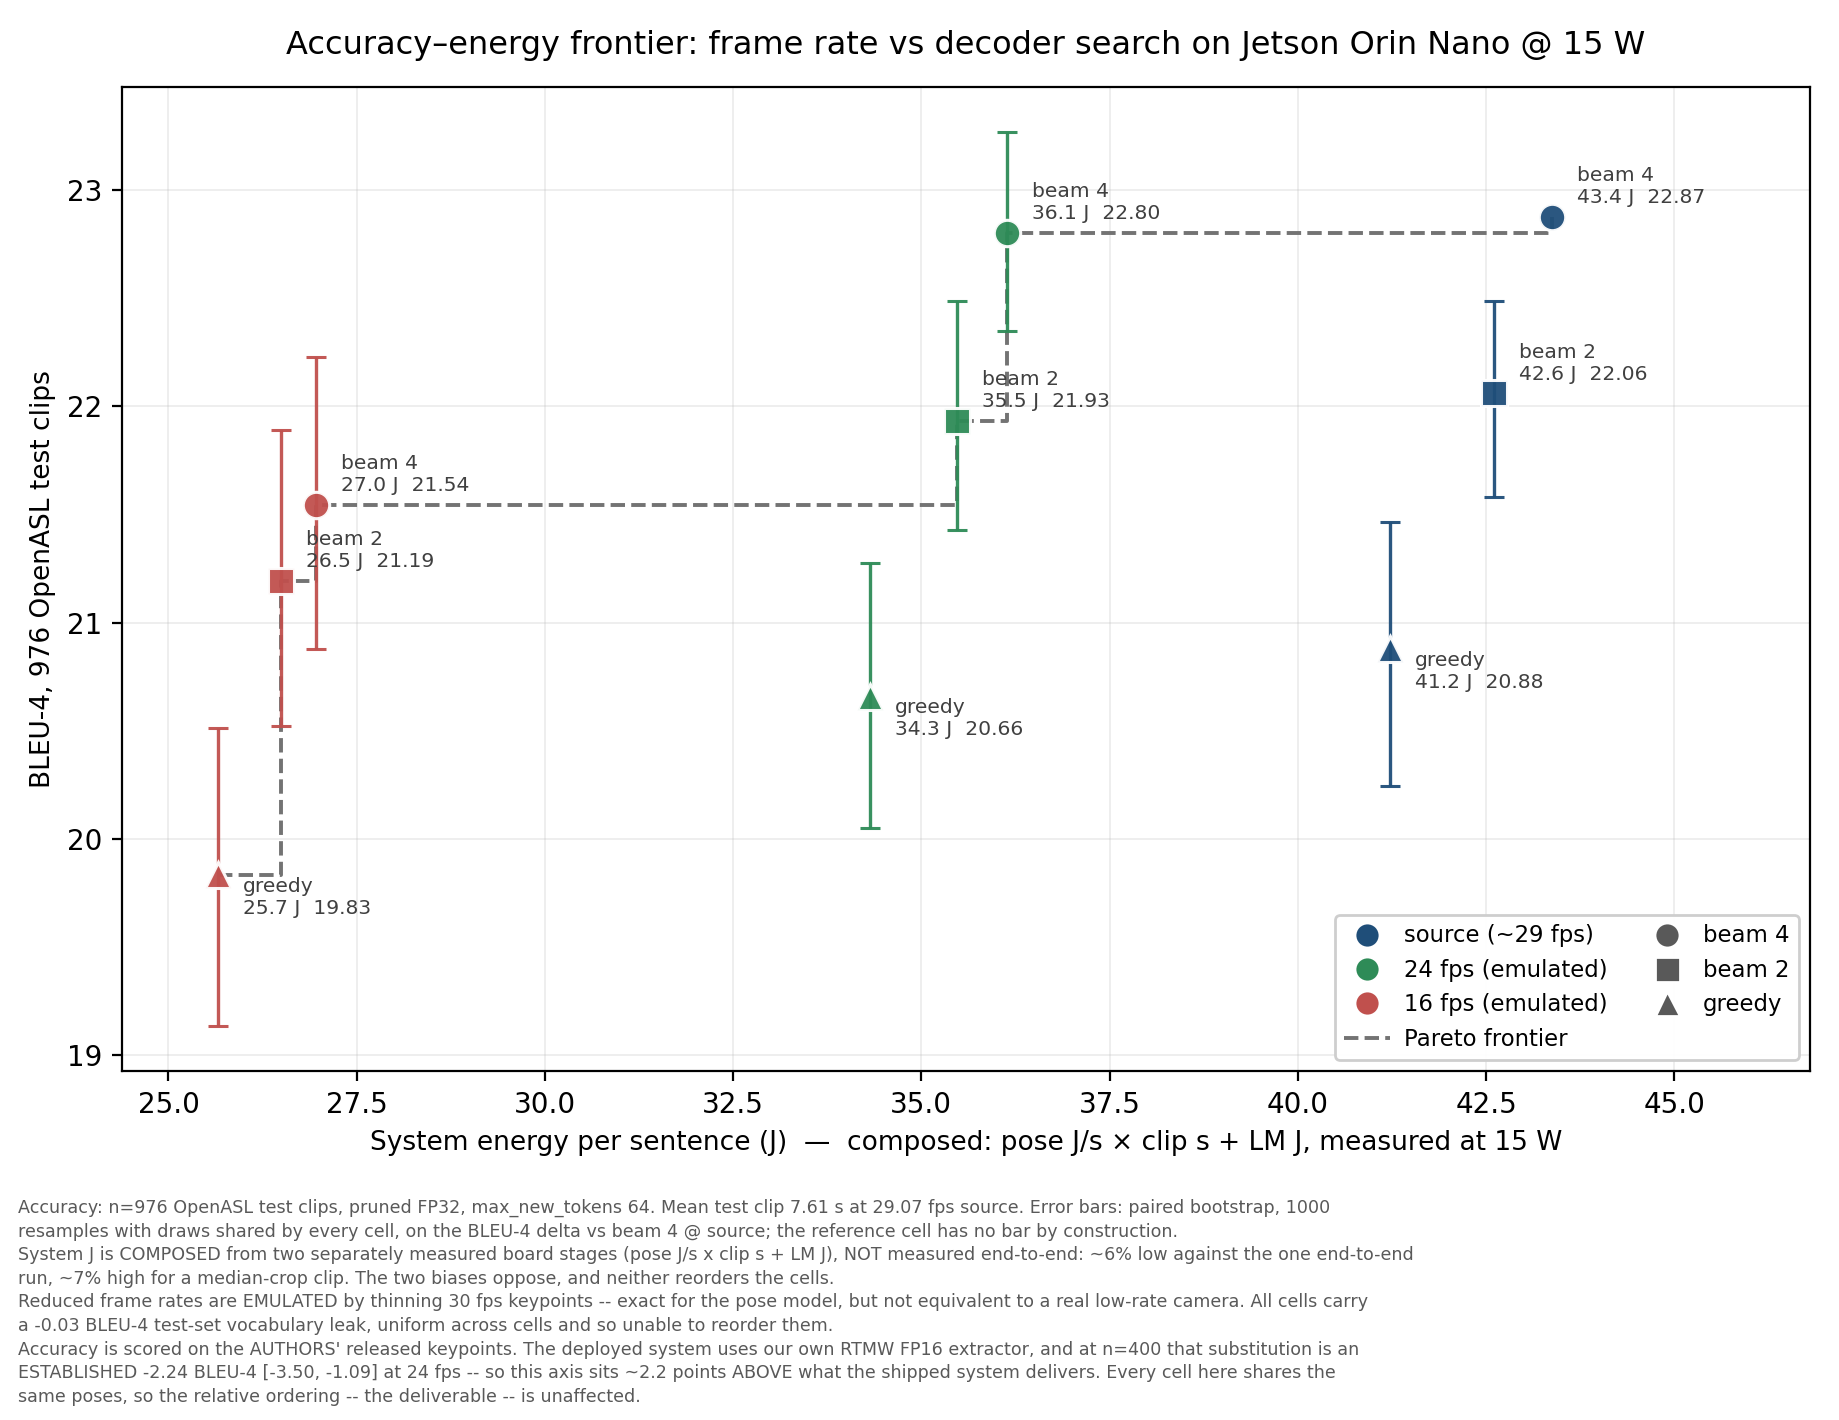
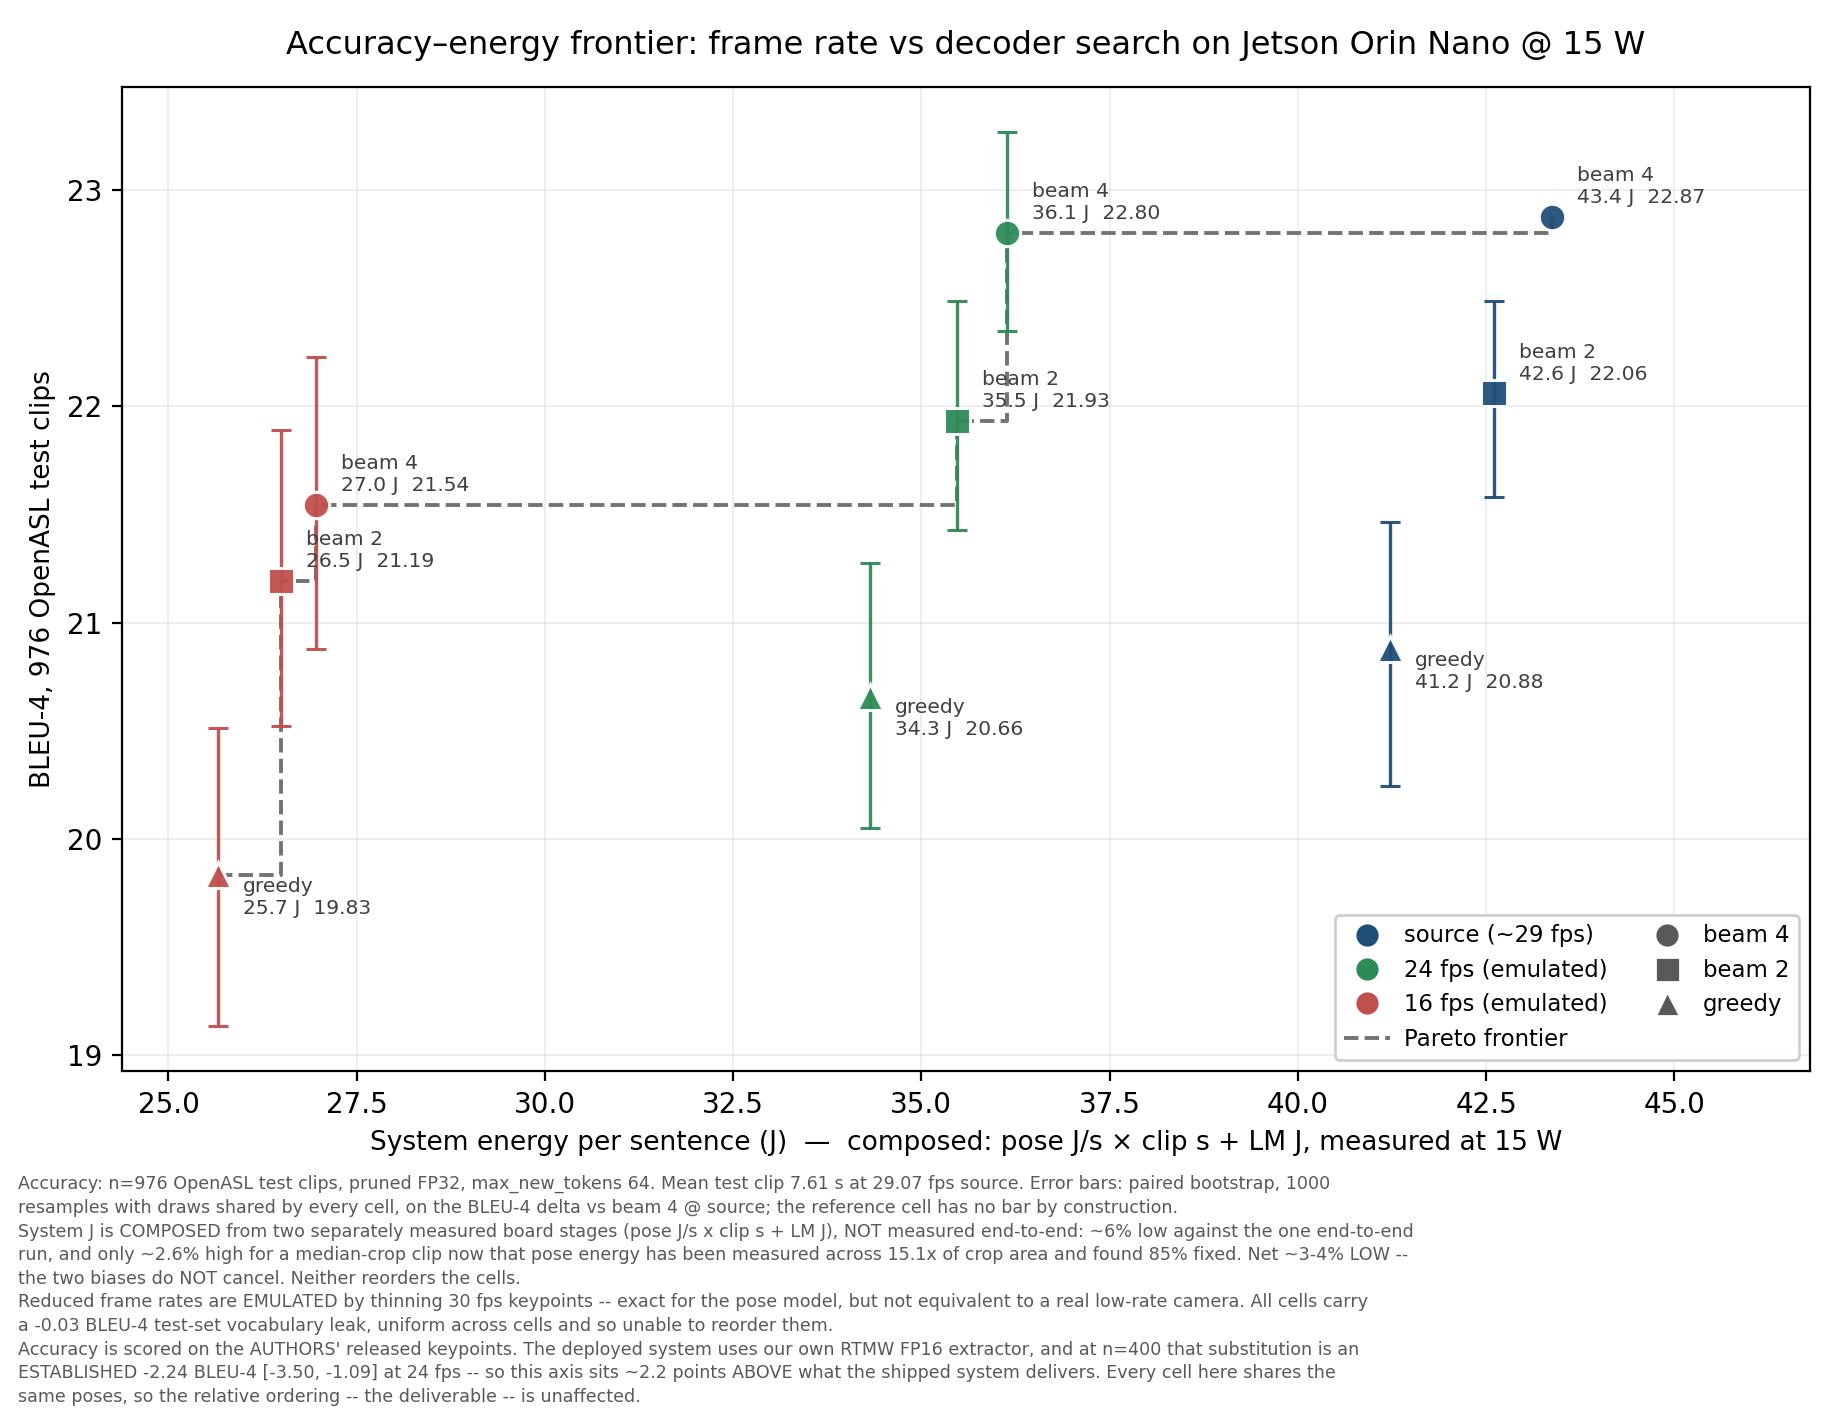
J6 propagated: the crop-area bias is ~2.6% not ~7%, and the biases no longer cancel
2.9D measured pose energy across 15.1x of crop area and found the cost 85%
fixed (mJ/frame = 109.7 + 49.5/Mpx). Our "~7% pessimistic for a median clip"
assumed all ~11.1 ms of per-frame CPU time scaled with area; only ~4.5 ms
does. Median correction is -2.6%, p10 -10.4%, not -7%/-27%.

The knock-on matters more than the number. frontier.py, plot_frontier.py,
the figure footnote, LM-TRACK-REPORT and RESEARCH-STORY all paired "~6% low"
against "~7% high" as roughly offsetting. At 2.6% they do not cancel: the
composed energy column is NET ~3-4% LOW, i.e. mildly optimistic rather than
unbiased. Relative ordering across cells is untouched -- every cell shares
the clip and the rates -- so the frontier itself does not move.

frontier.png and frontier.csv regenerated from the corrected source.

Also propagated into LM-TRACK-REPORT the 2026-10-02 refutation of the
convert/load/warm-up explanation for the 3.16 J residual, which had reached
frontier.py's docstring but not the report. ORIENTATION's "latency across the
crop range" open item is closed.

REPLY-J9-ADAPT: the J9 spec's single adapted-vs-un-adapted comparison cannot
separate adaptation-to-our-keypoints from fine-tuning-on-dev helping
generally -- L15.2 measured +0.18 BLEU-4 with NO shift to adapt to, and
L15.3's difference-in-differences was not established. Asks for a control arm
trained on the authors' dev poses, which needs no board time because
data/openasl_dev_pose/ is already on the Mac. Plus four logistics
[…]

Changed region(s): [[0.0, 0.8056, 0.7749, 0.9296]]

diff --git a/unisign/frontier.py b/unisign/frontier.py
@@ -54,13 +54,22 @@ relative ordering is the deliverable. But the absolute joules are not a typical 
      one end-to-end run -- the 2x2 reports per-stage LATENCY but only a per-sentence total, so it
      cannot split the residual between the pose and LM terms. That is an open ask to the board.
 
-  2. ~7% HIGH (pessimistic) for a median clip. POSE_J_PER_S was measured on one clip whose crop
-     is at the 83rd percentile of crop area across the 931-clip split (9k to 770k px, median
-     395k). Per-frame pose cost is ~13.97 ms fixed (TRT runs at a fixed 256x192 input) plus
-     ~11.13 ms that scales with crop area, so a median clip is ~7% cheaper per frame and a p10
-     clip ~27% cheaper. Meanwhile CLIP_S below is the MEAN TEST CLIP duration, not that clip's --
-     so the absolute column already mixes a duration from our split with an energy rate from
-     their clip. Fixing it needs pose energy over clips spanning the crop range (their C9 work).
+  2. ~2.6% HIGH (pessimistic) for a median clip -- REVISED DOWN from the ~7% this docstring
+     claimed until 2026-10-05. POSE_J_PER_S was measured on one clip whose crop is at the 83.4th
+     percentile of crop area across the 931-clip split (9k to 770k px, median 395k). The ~7%
+     figure assumed all ~11.13 ms of per-frame CPU time scaled with crop area. MEASURED over five
+     clips spanning 15.1x of area (RESULTS.md 2.9D / J6, 2026-10-04), only ~4.5 ms of it does:
+     the fit is mJ/frame = 109.7 + 49.5 per Mpx, i.e. 15.1x the area costs 1.34x the energy and
+     the cost is 85% FIXED. A median clip is therefore 2.6% cheaper per frame, not 7%, and a p10
+     clip 10.4%, not 27%. The old figure was an overestimate of about 3x.
+
+     CONSEQUENCE, and it is the reason this matters: caveats 1 and 2 no longer cancel. The old
+     pairing was "~6% low against ~7% high, the two oppose". At 2.6% the net is ~3-4% LOW, so the
+     absolute energy column is optimistic rather than roughly unbiased. Relative ordering across
+     cells is still untouched -- every cell shares the same clip and the same rates.
+
+     Meanwhile CLIP_S below is the MEAN TEST CLIP duration, not that clip's -- so the absolute
+     column still mixes a duration from our split with an energy rate from their clip.
 
 Two interpolations are flagged in the output:
   * beam 2 was not measured at T=137 or T=68, so it is placed at the same fraction of the
@@ -165,9 +174,10 @@ def main():
     name = NAME
     print(f"\nComposed accuracy-energy frontier, mean test clip ({CLIP_S} s, {SRC_FPS} fps source)")
     print("System J is COMPOSED from two separately measured stages, not measured end-to-end.")
-    print("Absolute J carries two opposing biases (see docstring): ~6% low from the unmodelled")
-    print("convert/load/warm-up, ~7% high because the pose energy rate came from an 83rd-percentile")
-    print("crop. RELATIVE comparisons across cells are unaffected. * = interpolated LM cell.\n")
+    print("Absolute J is NET ~3-4% LOW (see docstring): ~6% low from an across-run comparison, only")
+    print("~2.6% high from the 83rd-percentile crop the pose rate was measured on. The crop term was")
+    print("~7% until 2.9D/J6 measured it; the two no longer cancel.")
+    print("RELATIVE comparisons across cells are unaffected. * = interpolated LM cell.\n")
     print(f"{'decoder':<9}{'fps':>7}{'frames':>8}{'BLEU-4':>8}{'ROUGE-L':>9}"
           f"{'pose J':>8}{'LM J':>7}{'sys J':>8}  {'vs best':>8}  frontier")
     best = max(r["sys_J"] for r in rows)

diff --git a/results/plot_frontier.py b/results/plot_frontier.py
@@ -22,9 +22,12 @@ THREE THINGS THIS PLOT IS NOT, ALL ANNOTATED ON THE FIGURE ITSELF:
 
   1. System joules are COMPOSED, not measured end-to-end. Against the one measured end-to-end run
      the composition predicts 47.2 J where 50.37 J was measured (~6% low), and the pose rate came
-     from a clip at the 83rd percentile of crop area (~7% high for a median clip). The two biases
-     oppose. RELATIVE ordering across cells -- which is the deliverable -- is unaffected, because
-     every cell shares the same clip and the same rates.
+     from a clip at the 83.4th percentile of crop area (~2.6% high for a median clip). The net is
+     therefore ~3-4% LOW. NOTE: the crop term read ~7% here until 2026-10-05, which made the two
+     biases look like they cancelled; RESULTS.md 2.9D / J6 measured pose energy across 15.1x of
+     crop area and found the cost 85% FIXED, cutting that term by about 3x. RELATIVE ordering
+     across cells -- which is the deliverable -- is unaffected, because every cell shares the same
+     clip and the same rates.
   2. Reduced frame rates are EMULATED by thinning already-extracted 30 fps keypoints. Exact for
      the pose model (extraction is per-frame independent), but a real 16 fps camera would differ
      in exposure and motion blur.
@@ -150,8 +153,9 @@ paras = [
     f"{surf['n_boot']} resamples with draws shared by every cell, on the BLEU-4 delta vs beam 4 @ "
     f"source; the reference cell has no bar by construction.",
     "System J is COMPOSED from two separately measured board stages (pose J/s x clip s + LM J), "
-    "NOT measured end-to-end: ~6% low against the one end-to-end run, ~7% high for a median-crop "
-    "clip. The two biases oppose, and neither reorders the cells.",
+    "NOT measured end-to-end: ~6% low against the one end-to-end run, and only ~2.6% high for a "
+    "median-crop clip now that pose energy has been measured across 15.1x of crop area and found "
+    "85% fixed. Net ~3-4% LOW -- the two biases do NOT cancel. Neither reorders the cells.",
     "Reduced frame rates are EMULATED by thinning 30 fps keypoints -- exact for the pose model, "
     "but not equivalent to a real low-rate camera. All cells carry a -0.03 BLEU-4 test-set "
     "vocabulary leak, uniform across cells and so unable to reorder them.",

diff --git a/REPLY-J9-ADAPT-2026-10-05.md b/REPLY-J9-ADAPT-2026-10-05.md
@@ -1,0 +1,79 @@
+# Reply to `ASK-ADAPT-TO-OUR-POSES-2026-10-05.md` (J9)
+
+*LM track → pose track, 2026-10-05. Corrections to the spec and the asks they create. The premise —
+that the −2.24 gap is distribution shift and adaptation is the lever — is not in dispute here.*
+
+---
+
+## 1. The experiment as specified cannot attribute its own result
+
+This is the one that matters, and it is the mistake our Round 3 control run already caught once.
+
+The spec's success criterion is a single paired comparison: un-adapted vs adapted, both on our-pose
+test n=400, "recovering even half the gap (~+1.1)". **That number cannot distinguish adaptation to
+our keypoints from fine-tuning on dev helping generally.** Two of our own results say the confound is
+live, not hypothetical:
+
+* **§L15.2** — the same recipe (`lr 1e-5, ls 0.0, warmup 0.1`), on dev, with **no distribution shift
+  at all**, improved the model by **+0.18 BLEU-4 / +0.70 ROUGE-L**. Fine-tuning on this data helps
+  even when there is nothing to adapt to.
+* **§L15.3** — the difference-in-differences that would have separated the two was **+0.42
+  [−0.58, +1.53], not established**, and we retracted the claim that rested on it.
+
+So a +1.1 on the specified comparison is consistent with "adaptation closed half the pose gap" *and*
+with "fine-tuning on 967 dev clips is worth +1.1 regardless of whose keypoints they are." The spec
+has no arm that tells those apart.
+
+**Ask: add the control arm.** Same recipe, same `--fps 24`, same seed, trained on the **authors'**
+dev poses, evaluated on the **same our-pose test n=400**. The contrast of interest is then
+`adapted-on-ours − adapted-on-theirs`, not `adapted − un-adapted`. Without it we would be writing
+down the Round 2 mistake in the opposite direction: a false *positive* this time.
+
+The control arm needs no board time and no new extraction — `data/openasl_dev_pose/` already holds
+all 967 authors' dev pkls on the Mac. It is the cheap arm, not the expensive one.
+
+## 2. The ceiling moves too, so "half the gap" is not measured against 23.81
+
+23.81 is the **un-adapted** authors'-keypoint score. If this harness is worth ~+0.18 with nothing to
+adapt to, an adapted model scored against a fixed 23.81 credits adaptation with whatever generic
+fine-tuning gain is in it. Report the recovered fraction against the control arm's score, or report
+the raw delta and state that the denominator is un-adapted.
+
+## 3. Step 2 is not board work, and that changes the logistics the spec assumes
+
+The doc frames all three steps as runnable on the board. **Step 2 is not.** Every adaptation run this
+project has done ran on a Colab GPU; an Orin Nano at 15 W, no sudo, one process at a time, on a
+shared board is not a training device. The "adapt to the deployed distribution" requirement is
+satisfied by **step 1** being on-board — the training itself does not have to be.
+
+So the real sequence is: extract on the board → **pull `results/pkl_dev_rtmw_fp16/` off the board** →
+train on Colab → score. That pull is not in the spec and is the step that needs your call under the
+shared-board rule.
+
+## 4. Step 3's two halves are on different machines
+
+`results/pkl_split_rtmw_fp16/` (the 400 test clips through our extractor) is **on the board only** —
+nothing under that path is tracked in git and it is not on the Mac. The baseline eval JSON it must be
+paired against, `results/eval_n400_pruned_ours_fps24.json`, **is** on the Mac. One of the two has to
+move before the paired bootstrap can run. Say which you prefer; pulling the 400 pkls is the smaller
+transfer and makes the comparison re-runnable afterwards.
+
+## 5. Step 0 is 967 YouTube fetches, not a copy
+
+There are **no dev clips anywhere on the Mac**. `data/clips/` is 931 clips with **zero** overlap
+against `labels.dev` and 931/932 overlap against `labels.test` — it is the test split. So step 0 is a
+full `openasl_fetch.py --split dev` run from source, with whatever yield loss that carries, before
+any frames reach the board. It is the long pole in this plan and the doc budgets it as a copy.
+
+## 6. Flags check out
+
+For the record, every flag in the step 2 command exists in `unisign/train_adapt.py` with the meaning
+assumed: `--label-smoothing`, `--lr`, `--warmup-epochs`, `--fps`, `--amp`, `--seed`, `--out-dir`.
+Two the spec omits and should not: `--save-every` (Colab kills sessions mid-epoch; §L15 lost a run
+that way) and `--epochs`, which defaults rather than being stated.
+
+## 7. Not a correction, but it decides whether any of this happens
+
+The spec assigns extraction, training and evaluation to the LM track on the grounds of board access.
+Board runs have been yours for the whole project. **Atisri has to agree to that reassignment before
+step 0 starts** — this is not ours to accept on her behalf.

diff --git a/LM-TRACK-REPORT-2026-09-30.md b/LM-TRACK-REPORT-2026-09-30.md
@@ -299,13 +299,27 @@ the deliverable. But these joules are not a typical clip's:
 1. **~6 % low.** The 3.16 J the composition misses. ~~Attributed to the §5.4 contention.~~
    **CORRECTED by the pose track 2026-09-30:** their M1 run measured *no* contention (25.10 ms/frame
    end-to-end vs 25.03 standalone), because the implementation is sequential — all frames, then the
-   LM — so the stages never overlap. Likelier: the convert step (25.7 ms, unmodelled here), the idle
-   floor during the 64 s LM load, or warm-up. Untested.
-2. **~7 % high for a median clip.** The pose energy rate came from one clip whose crop is at the
-   **83rd percentile** of crop area across the 931-clip split. Pose cost is ~13.97 ms fixed plus
-   ~11.13 ms scaling with crop area, so a median clip is ~7 % cheaper per frame and a p10 clip ~27 %.
+   LM — so the stages never overlap. ~~Likelier: the convert step (25.7 ms, unmodelled here), the
+   idle floor during the 64 s LM load, or warm-up.~~ **ALSO REFUTED, 2026-10-02:** the pose track's
+   2×2 (§5.3) found the stages **exactly additive** — pose + convert + LM = total to within 0.04 ms
+   in every cell — and the convert step priced at M1's own 5.56 W is 0.143 J, **4.5 %** of the
+   3.16 J residual. Load and warm-up sit outside the power window by construction (§5.1). The
+   residual is therefore **not a within-run accounting gap**; it comes from comparing across runs,
+   since `POSE_J_PER_S` and `LM_J` were measured separately, on a different clip, each with its own
+   baseline draw and thermal state. Splitting it further needs per-stage *energy* from one
+   end-to-end run — the 2×2 reports per-stage latency but only a per-sentence total. Open ask.
+2. **~2.6 % high for a median clip — revised down from ~7 %, 2026-10-04.** The pose energy rate came
+   from one clip whose crop is at the **83.4th percentile** of crop area across the 931-clip split.
+   The ~7 % figure assumed all ~11.13 ms of per-frame CPU time scaled with crop area. **Measured**
+   over five clips spanning **15.1× of area** (§2.9D / J6): only ~4.5 ms does. 15.1× the area costs
+   **1.34× the energy** — 85 % fixed — fit `mJ/frame = 109.7 + 49.5/Mpx`. A median clip is 2.6 %
+   cheaper, not 7 %; a p10 clip 10.4 %, not 27 %. An overestimate of about 3×.
    Meanwhile `CLIP_S` is our split's *mean duration* — so the absolute column already mixes a duration
    from our data with an energy rate from their clip.
+
+**The two biases no longer cancel.** This report previously paired "~6 % low" against "~7 % high" as
+roughly offsetting. At 2.6 % the **net is ~3–4 % low**: the absolute energy column is mildly
+optimistic. Every relative ordering in the frontier is untouched — all cells share the clip and rates.
 
 | decoder | fps | BLEU-4 | ROUGE-L | system J | vs ref | |
 |---|---|---|---|---|---|---|

diff --git a/RESEARCH-STORY-2026-10-03.md b/RESEARCH-STORY-2026-10-03.md
@@ -323,11 +323,17 @@ measured end to end: `pose J/s × clip seconds + LM J`. We know two biases:
 
 - **~6% low** — the composition predicts 47.2 J where the one real end-to-end run measured 50.37 J.
   It doesn't model the format-conversion step, the idle draw during model load, or warm-up.
-- **~7% high** — the pose energy rate came from a clip whose crop is at the 83rd percentile of size,
-  while the duration is the mean clip's.
+- **~2.6% high** — the pose energy rate came from a clip whose crop is at the 83.4th percentile of
+  size, while the duration is the mean clip's. **This figure was ~7% until 2026-10-04**, when the
+  pose track measured pose energy across five clips spanning **15.1× of crop area** (§2.9D / J6) and
+  found 15.1× the area costs only **1.34× the energy** — the cost is **85% fixed**, fit
+  `mJ/frame = 109.7 + 49.5/Mpx`. The old ~7% assumed all ~11.1 ms of per-frame CPU time scaled with
+  area; only ~4.5 ms does. An overestimate of about 3×.
 
-They push in opposite directions, and *relative* comparisons across cells are unaffected because
-every cell shares the same clip and rates. But we do not quote a composed cell as a measured one.
+They push in opposite directions but **no longer cancel**: at ~6% low against ~2.6% high the net is
+**~3–4% low**, so the absolute energy column is mildly optimistic rather than roughly unbiased.
+*Relative* comparisons across cells are unaffected either way, because every cell shares the same
+clip and rates. But we do not quote a composed cell as a measured one.
 
 ### The one real end-to-end run
 

diff --git a/ORIENTATION.md b/ORIENTATION.md
@@ -363,9 +363,11 @@ it, for roughly 15 minutes of board time.
 
 **Also open:**
 
-- **Latency across the crop range.** All pose energy comes from one clip whose crop sits at the 83rd
-  percentile of crop area, and the range is 9k–770k px — an **85× spread**, with ~11 of 25 ms/frame
-  scaling with area. Absolute joules are therefore clip-specific until we have ≥3 clips spanning it.
+- ~~**Latency across the crop range.**~~ **CLOSED 2026-10-04 by the pose track (§2.9D / J6).** Five
+  clips spanning 50,660 → 766,080 px: **15.1× the crop area costs only 1.34× the energy**, so the
+  cost is **85 % fixed** (`mJ/frame = 109.7 + 49.5/Mpx`). The old worry that ~11 of 25 ms/frame
+  scaled with area was wrong — only ~4.5 ms does. The median-clip correction is **−2.6 %**, not the
+  ~7 % we had assumed, and absolute joules are far less clip-specific than feared.
 - **The 931-clip full-split pass.** Clips are on the Mac (6.6 GB); the board has 17 GB free at 85 %
   full, so this needs batching — roughly 100 clips, run, pull, delete, ten times. **Needs your call
   before any data moves**, under the shared-board rule.
